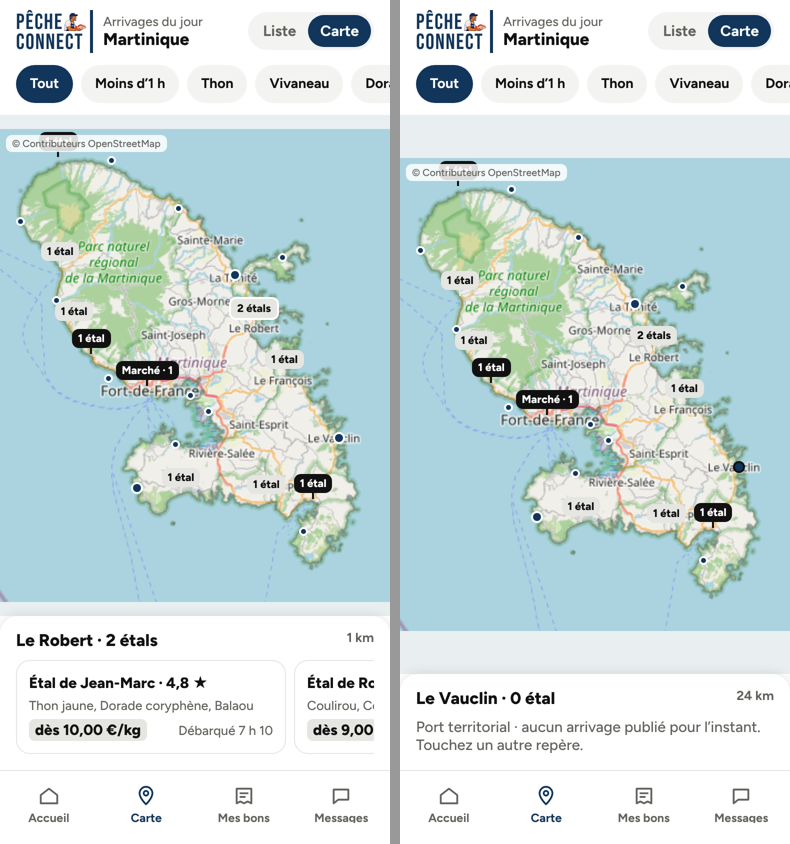
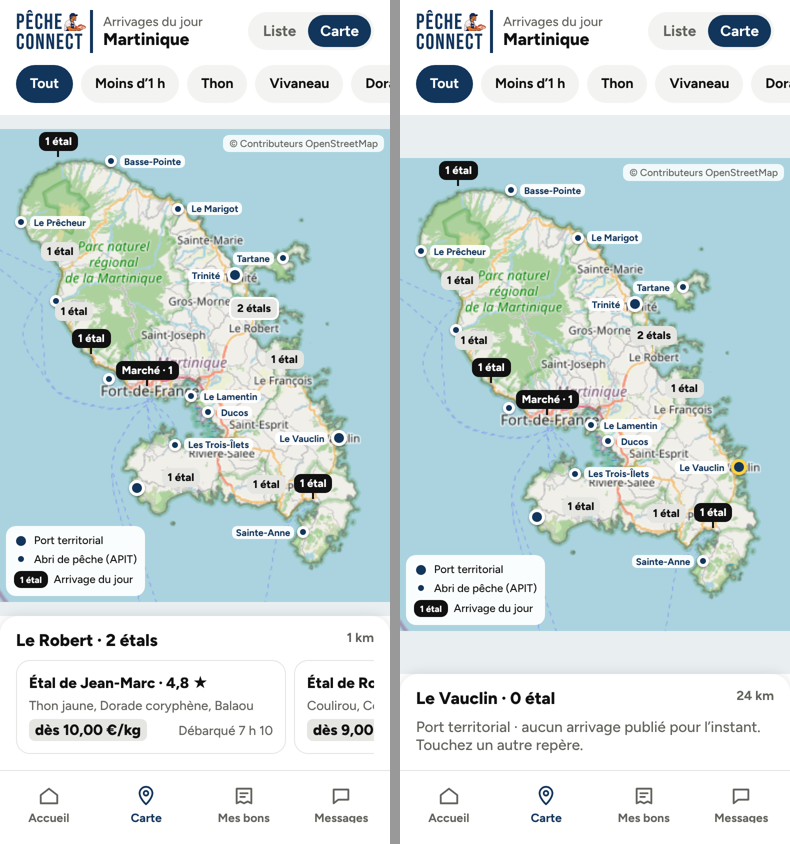
Carte : ports mieux mis en évidence (points plus gros, noms, légende)
Claude-Session: https://claude.ai/code/session_01BURN1duUK4xEwvo1i6Y61n

diff --git a/docs/_expo/static/js/web/entry-ca0cae71b13db94313d8381c0b77cc75.js b/docs/_expo/static/js/web/entry-ca0cae71b13db94313d8381c0b77cc75.js
@@ -756,7 +756,7 @@ __d(function(g,r,i,a,m,e,d){var t=r(d[0]);Object.defineProperty(e,"__esModule",{
 __d(function(g,r,i,a,m,e,d){m.exports={uri:"/assets/assets/personnage/tend.320ef15a95dc7fce6cc1bf8331c2c593.png",width:560,height:446}},654,[]);
 __d(function(g,r,i,a,m,e,d){m.exports={uri:"/assets/assets/personnage/tete-rire.c2d12189016b39b9d86133a097092736.png",width:360,height:318}},655,[]);
 __d(function(g,r,i,a,m,_e,d){var e=r(d[0]);Object.defineProperty(_e,"__esModule",{value:!0}),_e.default=function(){const e=(0,p.useApp)(),h=e.mesBons();return(0,f.jsxs)(l.SafeAreaView,{edges:['top'],style:{flex:1,backgroundColor:x.couleurs.fond},children:[(0,f.jsx)(u.T,{tresGras:!0,style:{fontSize:24,padding:16},children:"Mes bons"}),(0,f.jsxs)(n.default,{children:[h.length?null:(0,f.jsx)(u.Vide,{titre:"Aucun bon pour l\u2019instant",texte:"Quand vous r\xe9servez, votre bon de retrait appara\xeet ici avec son code.",action:"Voir les \xe9tals",onAction:()=>t.router.navigate('/(client)')}),h.map(n=>{const l=e.etal(n.etalId);return(0,f.jsxs)(s.default,{onPress:()=>t.router.push({pathname:'/bon/[code]',params:{code:n.code}}),style:{padding:16,gap:6,borderBottomWidth:1,borderBottomColor:x.couleurs.ligne},children:[(0,f.jsxs)(o.default,{style:{flexDirection:'row',justifyContent:'space-between',alignItems:'center'},children:[(0,f.jsx)(u.T,{tresGras:!0,style:{fontSize:18},children:n.code}),(0,f.jsx)(u.Pastille,{texte:n.creneau})]}),(0,f.jsxs)(u.T,{children:["\xc9tal de ",l?.pecheur," \xb7 ",l?.port]}),(0,f.jsx)(u.T,{gris:!0,petit:!0,children:e.resume(n.lignes)}),(0,f.jsx)(u.Pastille,{texte:'retire'===n.statut?'Retir\xe9 \xb7 pay\xe9 '+(0,c.euro)(n.montantPaye??0):'\xc0 retirer \xb7 en attente de pes\xe9e',style:{backgroundColor:'retire'===n.statut?'#dff3ea':x.couleurs.doux}})]},n.code)})]})]})};var t=r(d[1]),s=e(r(d[2])),n=e(r(d[3])),o=e(r(d[4])),l=r(d[5]),u=r(d[6]),c=r(d[7]),p=r(d[8]),x=r(d[9]),f=r(d[10])},656,[33,20,368,280,272,380,653,650,643,651,13]);
-__d(function(g,r,i,a,m,_e,d){var e=r(d[0]);Object.defineProperty(_e,"__esModule",{value:!0}),_e.default=function(){const e=(0,b.useApp)(),[c,R]=(0,s.useState)('Tout'),[P,O]=(0,s.useState)(e.e.commune),[k,z]=(0,s.useState)({w:0,h:0}),v=t=>e.e.etals.filter(s=>s.port===t&&s.produits.length>0&&('Tout'===c||('Moins d\u20191 h'===c?e.frais(s):s.produits.some(e=>e.espece.startsWith(c)&&e.dispoKg>0)))),L=v(P);return(0,y.jsxs)(h.SafeAreaView,{edges:['top'],style:{flex:1,backgroundColor:j.couleurs.fond},children:[(0,y.jsxs)(u.default,{style:{paddingHorizontal:16,paddingTop:10,flexDirection:'row',alignItems:'center',justifyContent:'space-between'},children:[(0,y.jsxs)(u.default,{style:{flexDirection:'row',alignItems:'center',gap:10},children:[(0,y.jsx)(f.Logo,{}),(0,y.jsxs)(u.default,{children:[(0,y.jsx)(f.T,{gris:!0,petit:!0,children:"Arrivages du jour"}),(0,y.jsx)(f.T,{tresGras:!0,style:{fontSize:17},children:"Martinique"})]})]}),(0,y.jsxs)(u.default,{style:C.bascule,children:[(0,y.jsx)(l.default,{onPress:()=>t.router.navigate('/(client)'),style:C.basc,children:(0,y.jsx)(f.T,{gras:!0,gris:!0,children:"Liste"})}),(0,y.jsx)(u.default,{style:[C.basc,{backgroundColor:j.couleurs.marine}],children:(0,y.jsx)(f.T,{gras:!0,style:{color:'#fff'},children:"Carte"})})]})]}),(0,y.jsx)(n.default,{horizontal:!0,showsHorizontalScrollIndicator:!1,contentContainerStyle:{gap:8,paddingHorizontal:16,paddingVertical:12},style:{flexGrow:0,flexShrink:0,minHeight:62},children:p.FILTRES.map(e=>(0,y.jsx)(f.Chip,{titre:e,actif:c===e,onPress:()=>R(e)},e))}),(0,y.jsx)(u.default,{style:{flex:1,backgroundColor:'#e9eff1',alignItems:'center',justifyContent:'center'},onLayout:e=>{const{width:t,height:s}=e.nativeEvent.layout,o=Math.min(s,t*T/w);z({w:o*w/T,h:o})},children:k.w>0?(0,y.jsxs)(u.default,{style:{width:k.w,height:k.h},children:[(0,y.jsx)(o.default,{source:r(d[15]),style:{width:k.w,height:k.h},resizeMode:"stretch",accessibilityLabel:"Carte de la Martinique"}),Object.keys(p.PORTS).filter(e=>!v(e).length).map(e=>{const[t,s]=S(p.PORTS[e].lat,p.PORTS[e].lon),o=e===P,n='Port territorial'===p.PORTS[e].type?12:9;return(0,y.jsx)(l.default,{accessibilityLabel:e+', '+p.PORTS[e].type.toLowerCase()+', aucun arrivage',onPress:()=>O(e),hitSlop:10,style:{position:'absolute',left:t*k.w-n/2,top:s*k.h-n/2,width:n,height:n,borderRadius:n/2,backgroundColor:j.couleurs.marine,borderWidth:2,borderColor:o?j.couleurs.texte:'#fff'}},e)}),Object.keys(p.PORTS).map(t=>{const s=v(t);if(!s.length)return null;const[o,n]=S(p.PORTS[t].lat,p.PORTS[t].lon),c=s.some(e.frais),h=t===P;return(0,y.jsxs)(l.default,{accessibilityLabel:t+', '+s.length+' \xe9tals',onPress:()=>O(t),style:{position:'absolute',left:o*k.w-40,top:n*k.h-30,width:80,alignItems:'center'},children:[(0,y.jsx)(u.default,{style:[C.repere,c?{backgroundColor:j.couleurs.accent}:{backgroundColor:j.couleurs.texte},h&&C.choisi],children:(0,y.jsx)(f.T,{tresGras:!0,style:{fontSize:11,color:c?j.couleurs.surAccent:'#fff'},children:'Fort-de-France'===t?'March\xe9 \xb7 '+s.length:s.length+' \xe9tal'+(s.length>1?'s':'')})}),(0,y.jsx)(u.default,{style:{width:2,height:6,backgroundColor:c?j.couleurs.accent:j.couleurs.texte}})]},t)}),(0,y.jsx)(u.default,{style:C.osm,children:(0,y.jsx)(f.T,{gris:!0,style:{fontSize:10},children:"\xa9 Contributeurs OpenStreetMap"})})]}):null}),(0,y.jsxs)(u.default,{style:C.volet,children:[(0,y.jsxs)(u.default,{style:{flexDirection:'row',justifyContent:'space-between',marginBottom:10},children:[(0,y.jsxs)(f.T,{tresGras:!0,style:{fontSize:17},children:[P," \xb7 ",L.length," \xe9tal",L.length>1?'s':'']}),(0,y.jsxs)(f.T,{gras:!0,gris:!0,petit:!0,children:[(0,x.distanceKm)(p.PORTS[e.e.commune],p.PORTS[P])," km"]})]}),L.length?(0,y.jsx)(n.default,{horizontal:!0,showsHorizontalScrollIndicator:!1,contentContainerStyle:{gap:8},children:L.map(s=>(0,y.jsxs)(l.default,{onPress:()=>t.router.push({pathname:'/etal/[id]',params:{id:s.id}}),style:[C.mini,{width:L.length>1?270:340}],children:[(0,y.jsxs)(f.T,{tresGras:!0,children:["\xc9tal de ",s.pecheur," \xb7 ",String(s.note).replace('.',',')," \u2605"]}),(0,y.jsx)(f.T,{gris:!0,petit:!0,numberOfLines:1,children:s.produits.map(e=>e.espece).join(', ')}),(0,y.jsxs)(u.default,{style:{flexDirection:'row',justifyContent:'space-between',alignItems:'center'},children:[null!==e.minPrix(s)?(0,y.jsx)(f.Prix,{texte:'d\xe8s '+(0,x.euro)(e.minPrix(s))+'/kg'}):(0,y.jsx)(u.default,{}),(0,y.jsxs)(f.T,{gris:!0,petit:!0,children:["D\xe9barqu\xe9 ",(0,x.heure)(s.debarque)]})]})]},s.id))}):(0,y.jsxs)(f.T,{gris:!0,children:[p.PORTS[P]?.type??'Port'," \xb7 ",e.e.etals.some(e=>e.port===P)?'aucun \xe9tal ne correspond au filtre ici.':'aucun arrivage publi\xe9 pour l\u2019instant.'," Touchez un autre rep\xe8re."]})]})]})};var t=r(d[1]),s=r(d[2]),o=e(r(d[3])),l=e(r(d[4])),n=e(r(d[5])),c=e(r(d[6])),u=e(r(d[7])),h=r(d[8]),f=r(d[9]),p=r(d[10]),x=r(d[11]),b=r(d[12]),j=r(d[13]),y=r(d[14]);const w=1055,T=1280,S=(e,t)=>[(136108+2222.2*t)/w,(34232.374-2295.661*e)/T];const C=c.default.create({bascule:{flexDirection:'row',backgroundColor:j.couleurs.doux,borderRadius:999,padding:3},basc:{paddingHorizontal:12,paddingVertical:7,borderRadius:999},repere:{borderRadius:7,paddingHorizontal:6,paddingVertical:3},choisi:{borderWidth:2,borderColor:'#fff',shadowColor:'#000',shadowOpacity:.4,shadowRadius:0,shadowOffset:{width:0,height:0},elevation:3},osm:{position:'absolute',left:6,top:6,backgroundColor:'rgba(255,255,255,0.85)',borderRadius:6,paddingHorizontal:6,paddingVertical:2},volet:{backgroundColor:j.couleurs.fond,borderTopLeftRadius:18,borderTopRightRadius:18,padding:16,paddingTop:14,shadowColor:'#000',shadowOpacity:.12,shadowRadius:12,elevation:6},mini:{borderWidth:1,borderColor:j.couleurs.ligne,borderRadius:14,padding:12,gap:6}})},657,[33,20,15,330,368,280,156,272,380,653,649,650,643,651,13,658]);
+__d(function(g,r,i,a,m,_e,d){var e=r(d[0]);Object.defineProperty(_e,"__esModule",{value:!0}),_e.default=function(){const e=(0,b.useApp)(),[c,R]=(0,s.useState)('Tout'),[P,O]=(0,s.useState)(e.e.commune),[k,z]=(0,s.useState)({w:0,h:0}),L=t=>e.e.etals.filter(s=>s.port===t&&s.produits.length>0&&('Tout'===c||('Moins d\u20191 h'===c?e.frais(s):s.produits.some(e=>e.espece.startsWith(c)&&e.dispoKg>0)))),v=L(P);return(0,y.jsxs)(h.SafeAreaView,{edges:['top'],style:{flex:1,backgroundColor:j.couleurs.fond},children:[(0,y.jsxs)(u.default,{style:{paddingHorizontal:16,paddingTop:10,flexDirection:'row',alignItems:'center',justifyContent:'space-between'},children:[(0,y.jsxs)(u.default,{style:{flexDirection:'row',alignItems:'center',gap:10},children:[(0,y.jsx)(f.Logo,{}),(0,y.jsxs)(u.default,{children:[(0,y.jsx)(f.T,{gris:!0,petit:!0,children:"Arrivages du jour"}),(0,y.jsx)(f.T,{tresGras:!0,style:{fontSize:17},children:"Martinique"})]})]}),(0,y.jsxs)(u.default,{style:C.bascule,children:[(0,y.jsx)(l.default,{onPress:()=>t.router.navigate('/(client)'),style:C.basc,children:(0,y.jsx)(f.T,{gras:!0,gris:!0,children:"Liste"})}),(0,y.jsx)(u.default,{style:[C.basc,{backgroundColor:j.couleurs.marine}],children:(0,y.jsx)(f.T,{gras:!0,style:{color:'#fff'},children:"Carte"})})]})]}),(0,y.jsx)(n.default,{horizontal:!0,showsHorizontalScrollIndicator:!1,contentContainerStyle:{gap:8,paddingHorizontal:16,paddingVertical:12},style:{flexGrow:0,flexShrink:0,minHeight:62},children:p.FILTRES.map(e=>(0,y.jsx)(f.Chip,{titre:e,actif:c===e,onPress:()=>R(e)},e))}),(0,y.jsx)(u.default,{style:{flex:1,backgroundColor:'#e9eff1',alignItems:'center',justifyContent:'center'},onLayout:e=>{const{width:t,height:s}=e.nativeEvent.layout,o=Math.min(s,t*T/w);z({w:o*w/T,h:o})},children:k.w>0?(0,y.jsxs)(u.default,{style:{width:k.w,height:k.h},children:[(0,y.jsx)(o.default,{source:r(d[15]),style:{width:k.w,height:k.h},resizeMode:"stretch",accessibilityLabel:"Carte de la Martinique"}),Object.keys(p.PORTS).filter(e=>!L(e).length).map((e,t,s)=>{const[o,n]=S(p.PORTS[e].lat,p.PORTS[e].lon),c=e===P,h='Port territorial'===p.PORTS[e].type?16:12,x=o<.55,b=o*k.w,w=n*k.h,T=5.6*e.length+10,R=x?b+h/2:b-h/2-T,z=R+T,v=Object.keys(p.PORTS).some(e=>{if(!L(e).length)return!1;const[t,s]=S(p.PORTS[e].lat,p.PORTS[e].lon),o=t*k.w,l=s*k.h;return R<o+34&&z>o-34&&w-8<l-6&&w+8>l-32});return(0,y.jsxs)(l.default,{accessibilityLabel:e+', '+p.PORTS[e].type.toLowerCase()+', aucun arrivage',onPress:()=>O(e),hitSlop:8,style:{position:'absolute',left:o*k.w-(x?h/2:110-h/2),top:n*k.h-h/2,width:110,flexDirection:x?'row':'row-reverse',alignItems:'center',gap:3},children:[(0,y.jsx)(u.default,{style:{width:h,height:h,borderRadius:h/2,backgroundColor:j.couleurs.marine,borderWidth:3,borderColor:c?'#ffd23f':'#fff',shadowColor:'#000',shadowOpacity:.35,shadowRadius:2,shadowOffset:{width:0,height:1},elevation:2}}),v&&!c?null:(0,y.jsx)(u.default,{style:C.nomPort,children:(0,y.jsx)(f.T,{gras:!0,style:{fontSize:9.5,color:j.couleurs.marine},numberOfLines:1,children:e})})]},e)}),Object.keys(p.PORTS).map(t=>{const s=L(t);if(!s.length)return null;const[o,n]=S(p.PORTS[t].lat,p.PORTS[t].lon),c=s.some(e.frais),h=t===P;return(0,y.jsxs)(l.default,{accessibilityLabel:t+', '+s.length+' \xe9tals',onPress:()=>O(t),style:{position:'absolute',left:o*k.w-40,top:n*k.h-30,width:80,alignItems:'center'},children:[(0,y.jsx)(u.default,{style:[C.repere,c?{backgroundColor:j.couleurs.accent}:{backgroundColor:j.couleurs.texte},h&&C.choisi],children:(0,y.jsx)(f.T,{tresGras:!0,style:{fontSize:11,color:c?j.couleurs.surAccent:'#fff'},children:'Fort-de-France'===t?'March\xe9 \xb7 '+s.length:s.length+' \xe9tal'+(s.length>1?'s':'')})}),(0,y.jsx)(u.default,{style:{width:2,height:6,backgroundColor:c?j.couleurs.accent:j.couleurs.texte}})]},t)}),(0,y.jsx)(u.default,{style:C.osm,children:(0,y.jsx)(f.T,{gris:!0,style:{fontSize:10},children:"\xa9 Contributeurs OpenStreetMap"})}),(0,y.jsxs)(u.default,{style:C.legende,children:[(0,y.jsxs)(u.default,{style:C.ligneLeg,children:[(0,y.jsx)(u.default,{style:[C.pt,{width:14,height:14,borderRadius:7}]}),(0,y.jsx)(f.T,{style:C.txtLeg,children:"Port territorial"})]}),(0,y.jsxs)(u.default,{style:C.ligneLeg,children:[(0,y.jsx)(u.default,{style:[C.pt,{width:10,height:10,borderRadius:5,marginHorizontal:2}]}),(0,y.jsx)(f.T,{style:C.txtLeg,children:"Abri de p\xeache (APIT)"})]}),(0,y.jsxs)(u.default,{style:C.ligneLeg,children:[(0,y.jsx)(u.default,{style:[C.repere,{backgroundColor:j.couleurs.texte}],children:(0,y.jsx)(f.T,{tresGras:!0,style:{fontSize:9,color:'#fff'},children:"1 \xe9tal"})}),(0,y.jsx)(f.T,{style:C.txtLeg,children:"Arrivage du jour"})]})]})]}):null}),(0,y.jsxs)(u.default,{style:C.volet,children:[(0,y.jsxs)(u.default,{style:{flexDirection:'row',justifyContent:'space-between',marginBottom:10},children:[(0,y.jsxs)(f.T,{tresGras:!0,style:{fontSize:17},children:[P," \xb7 ",v.length," \xe9tal",v.length>1?'s':'']}),(0,y.jsxs)(f.T,{gras:!0,gris:!0,petit:!0,children:[(0,x.distanceKm)(p.PORTS[e.e.commune],p.PORTS[P])," km"]})]}),v.length?(0,y.jsx)(n.default,{horizontal:!0,showsHorizontalScrollIndicator:!1,contentContainerStyle:{gap:8},children:v.map(s=>(0,y.jsxs)(l.default,{onPress:()=>t.router.push({pathname:'/etal/[id]',params:{id:s.id}}),style:[C.mini,{width:v.length>1?270:340}],children:[(0,y.jsxs)(f.T,{tresGras:!0,children:["\xc9tal de ",s.pecheur," \xb7 ",String(s.note).replace('.',',')," \u2605"]}),(0,y.jsx)(f.T,{gris:!0,petit:!0,numberOfLines:1,children:s.produits.map(e=>e.espece).join(', ')}),(0,y.jsxs)(u.default,{style:{flexDirection:'row',justifyContent:'space-between',alignItems:'center'},children:[null!==e.minPrix(s)?(0,y.jsx)(f.Prix,{texte:'d\xe8s '+(0,x.euro)(e.minPrix(s))+'/kg'}):(0,y.jsx)(u.default,{}),(0,y.jsxs)(f.T,{gris:!0,petit:!0,children:["D\xe9barqu\xe9 ",(0,x.heure)(s.debarque)]})]})]},s.id))}):(0,y.jsxs)(f.T,{gris:!0,children:[p.PORTS[P]?.type??'Port'," \xb7 ",e.e.etals.some(e=>e.port===P)?'aucun \xe9tal ne correspond au filtre ici.':'aucun arrivage publi\xe9 pour l\u2019instant.'," Touchez un autre rep\xe8re."]})]})]})};var t=r(d[1]),s=r(d[2]),o=e(r(d[3])),l=e(r(d[4])),n=e(r(d[5])),c=e(r(d[6])),u=e(r(d[7])),h=r(d[8]),f=r(d[9]),p=r(d[10]),x=r(d[11]),b=r(d[12]),j=r(d[13]),y=r(d[14]);const w=1055,T=1280,S=(e,t)=>[(136108+2222.2*t)/w,(34232.374-2295.661*e)/T];const C=c.default.create({bascule:{flexDirection:'row',backgroundColor:j.couleurs.doux,borderRadius:999,padding:3},basc:{paddingHorizontal:12,paddingVertical:7,borderRadius:999},repere:{borderRadius:7,paddingHorizontal:6,paddingVertical:3},choisi:{borderWidth:2,borderColor:'#fff',shadowColor:'#000',shadowOpacity:.4,shadowRadius:0,shadowOffset:{width:0,height:0},elevation:3},nomPort:{backgroundColor:'rgba(255,255,255,0.92)',borderRadius:5,paddingHorizontal:4,paddingVertical:1,maxWidth:92},legende:{position:'absolute',left:6,bottom:6,backgroundColor:'rgba(255,255,255,0.94)',borderRadius:10,padding:8,gap:5},ligneLeg:{flexDirection:'row',alignItems:'center',gap:6},pt:{backgroundColor:j.couleurs.marine,borderWidth:2,borderColor:'#fff'},txtLeg:{fontSize:11},osm:{position:'absolute',right:6,top:6,backgroundColor:'rgba(255,255,255,0.85)',borderRadius:6,paddingHorizontal:6,paddingVertical:2},volet:{backgroundColor:j.couleurs.fond,borderTopLeftRadius:18,borderTopRightRadius:18,padding:16,paddingTop:14,shadowColor:'#000',shadowOpacity:.12,shadowRadius:12,elevation:6},mini:{borderWidth:1,borderColor:j.couleurs.ligne,borderRadius:14,padding:12,gap:6}})},657,[33,20,15,330,368,280,156,272,380,653,649,650,643,651,13,658]);
 __d(function(e,t,s,i,a,n,r){a.exports={uri:"/assets/assets/carte-martinique.34138d2fb5244b163653e365be8723ee.png",width:1055,height:1280}},658,[]);
 __d(function(g,r,i,_a,m,_e,d){var e=r(d[0]);Object.defineProperty(_e,"__esModule",{value:!0}),_e.default=function(){const e=(0,y.useApp)(),[a,z]=(0,o.useState)('Tout'),[S,w]=(0,o.useState)(''),[v,H]=(0,o.useState)(!1),L=(0,o.useMemo)(()=>e.e.etals.filter(t=>{if('Moins d\u20191 h'===a&&!e.frais(t))return!1;if('Tout'!==a&&'Moins d\u20191 h'!==a&&!t.produits.some(e=>e.espece.startsWith(a)&&e.dispoKg>0))return!1;const o=S.trim().toLowerCase();return!(o&&!(t.pecheur+' '+t.port+' '+t.produits.map(e=>e.espece).join(' ')).toLowerCase().includes(o))&&t.produits.length>0}).sort((t,o)=>e.km(t)-e.km(o)),[e,a,S]),R=L.filter(e.frais);return(0,T.jsxs)(h.SafeAreaView,{edges:['top'],style:{flex:1,backgroundColor:b.couleurs.fond},children:[(0,T.jsxs)(u.default,{style:{paddingHorizontal:16,paddingTop:10,gap:12},children:[(0,T.jsxs)(u.default,{style:{flexDirection:'row',alignItems:'center',justifyContent:'space-between'},children:[(0,T.jsxs)(u.default,{style:{flexDirection:'row',alignItems:'center',gap:10},children:[(0,T.jsx)(x.Logo,{}),(0,T.jsxs)(l.default,{accessibilityRole:"button",onPress:()=>H(!0),children:[(0,T.jsx)(x.T,{gris:!0,petit:!0,children:"Retrait pr\xe8s de"}),(0,T.jsxs)(x.T,{tresGras:!0,style:{fontSize:17},children:[e.e.commune," \u25be"]})]})]}),(0,T.jsx)(x.Rond,{label:"Mon compte",onPress:()=>t.router.push('/compte'),children:(0,T.jsx)(f.IcCompte,{})})]}),(0,T.jsxs)(u.default,{style:C.recherche,children:[(0,T.jsx)(f.IcLoupe,{couleur:b.couleurs.gris,taille:18}),(0,T.jsx)(c.default,{value:S,onChangeText:w,placeholder:"Thon, vivaneau, un port\u2026",placeholderTextColor:b.couleurs.grisClair,style:C.champ,accessibilityLabel:"Rechercher"})]})]}),(0,T.jsx)(n.default,{horizontal:!0,showsHorizontalScrollIndicator:!1,contentContainerStyle:{gap:8,paddingHorizontal:16,paddingVertical:12},style:{flexGrow:0,flexShrink:0,minHeight:62},children:j.FILTRES.map(e=>(0,T.jsx)(x.Chip,{titre:e,actif:a===e,onPress:()=>z(e)},e))}),(0,T.jsxs)(n.default,{contentContainerStyle:{paddingBottom:24,gap:20},children:['Tout'!==a||S?null:(0,T.jsxs)(u.default,{style:C.bandeau,children:[(0,T.jsxs)(u.default,{style:{width:'58%',gap:6},children:[(0,T.jsx)(x.T,{tresGras:!0,style:{color:b.couleurs.marine,fontSize:19,lineHeight:23},children:"Le poisson du jour, en direct des p\xeacheurs"}),(0,T.jsxs)(x.T,{gras:!0,style:{color:b.couleurs.texte},children:[L.length," \xe9tals ouverts ce matin"]})]}),(0,T.jsx)(s.default,{source:r(d[17]),style:C.perso,resizeMode:"contain",accessibilityLabel:"Le p\xeacheur montre fi\xe8rement un vivaneau"})]}),L.length?(0,T.jsxs)(T.Fragment,{children:[R.length>0&&'Moins d\u20191 h'!==a?(0,T.jsxs)(u.default,{style:{gap:10},children:[(0,T.jsx)(x.T,{tresGras:!0,style:C.h2,children:"Arriv\xe9 il y a moins d\u2019une heure"}),(0,T.jsx)(n.default,{horizontal:!0,showsHorizontalScrollIndicator:!1,contentContainerStyle:{gap:12,paddingHorizontal:16},children:R.map(e=>(0,T.jsx)(p.CarteEtal,{etal:e},e.id))})]}):null,(0,T.jsxs)(u.default,{style:{gap:10},children:[(0,T.jsx)(x.T,{tresGras:!0,style:C.h2,children:'Tout'!==a||S?L.length+' \xe9tal'+(L.length>1?'s':'')+' trouv\xe9'+(L.length>1?'s':''):'Tous les \xe9tals du jour'}),(0,T.jsx)(u.default,{style:{paddingHorizontal:16,gap:18},children:L.map(e=>(0,T.jsx)(p.CarteEtal,{etal:e,large:!0},e.id))})]})]}):(0,T.jsx)(x.Vide,{titre:"Aucun \xe9tal ne correspond",texte:"Essayez un autre poisson ou effacez la recherche.",action:"Tout afficher",onAction:()=>{z('Tout'),w('')}})]}),(0,T.jsx)(x.Feuille,{visible:v,onFermer:()=>H(!1),titre:"Retrait pr\xe8s de\u2026",children:Object.keys(j.PORTS).map(t=>(0,T.jsxs)(l.default,{onPress:()=>{e.choisirCommune(t),H(!1)},style:C.option,children:[(0,T.jsx)(x.T,{tresGras:!0,style:{flex:1},children:t}),e.e.commune===t?(0,T.jsx)(x.T,{tresGras:!0,children:"\u2713"}):null]},t))})]})};var t=r(d[1]),o=r(d[2]),s=e(r(d[3])),l=e(r(d[4])),n=e(r(d[5])),a=e(r(d[6])),c=e(r(d[7])),u=e(r(d[8])),h=r(d[9]),p=r(d[10]),f=r(d[11]),x=r(d[12]),j=r(d[13]),y=r(d[14]),b=r(d[15]),T=r(d[16]);const C=a.default.create({bandeau:{marginHorizontal:16,height:160,borderRadius:16,paddingLeft:18,justifyContent:'center',overflow:'hidden',backgroundColor:b.couleurs.doux},perso:{position:'absolute',right:8,bottom:-4,width:128,height:160},recherche:{flexDirection:'row',alignItems:'center',gap:10,backgroundColor:b.couleurs.doux,borderRadius:999,paddingHorizontal:16,height:46},champ:{flex:1,fontSize:16,fontFamily:b.polices.normal,color:b.couleurs.texte,height:46},h2:{fontSize:19,paddingHorizontal:16},option:{flexDirection:'row',paddingVertical:14,borderBottomWidth:1,borderBottomColor:b.couleurs.ligne}})},659,[33,20,15,330,368,280,156,397,272,380,660,620,653,649,643,651,13,661]);
 __d(function(g,r,i,a,m,_e,d){var e=r(d[0]);Object.defineProperty(_e,"__esModule",{value:!0}),_e.CarteEtal=function({etal:e,large:f}){const x=(0,o.useApp)(),h=x.frais(e),j=e.produits.reduce((e,t)=>e+t.dispoKg,0),y=x.minPrix(e);return(0,p.jsxs)(s.default,{accessibilityRole:"button",onPress:()=>t.router.push({pathname:'/etal/[id]',params:{id:e.id}}),style:{width:f?'100%':260,gap:5},children:[(0,p.jsxs)(l.default,{style:[c.s.photo,{height:f?150:130}],children:[(0,p.jsx)(c.T,{gras:!0,gris:!0,petit:!0,style:{letterSpacing:1},children:e.port.toUpperCase()}),(0,p.jsx)(l.default,{style:{position:'absolute',left:10,top:10},children:j>0&&j<=6?(0,p.jsx)(l.default,{style:{backgroundColor:u.couleurs.alerte,borderRadius:999,paddingHorizontal:8,paddingVertical:4},children:(0,p.jsx)(c.T,{gras:!0,style:{color:'#fff',fontSize:12},children:"Bient\xf4t \xe9puis\xe9"})}):(0,p.jsx)(c.Pastille,{texte:'D\xe9barqu\xe9 '+(0,n.heure)(e.debarque),fonce:!h})})]}),(0,p.jsxs)(l.default,{style:{flexDirection:'row',justifyContent:'space-between',alignItems:'center'},children:[(0,p.jsxs)(c.T,{tresGras:!0,style:{fontSize:16},children:["\xc9tal de ",e.pecheur]}),(0,p.jsx)(l.default,{style:{backgroundColor:u.couleurs.doux,borderRadius:999,paddingHorizontal:8,paddingVertical:3},children:(0,p.jsxs)(c.T,{gras:!0,petit:!0,children:[String(e.note).replace('.',',')," \u2605"]})})]}),(0,p.jsxs)(l.default,{style:{flexDirection:'row',flexWrap:'wrap',alignItems:'center',gap:6},children:[(0,p.jsx)(c.T,{gris:!0,numberOfLines:1,style:{flexShrink:1},children:e.produits.map(e=>e.espece).join(', ')||'Pas encore d\u2019arrivage'}),null!==y?(0,p.jsx)(c.Prix,{texte:'d\xe8s '+(0,n.euro)(y)+'/kg'}):null]}),(0,p.jsxs)(c.T,{gris:!0,petit:!0,children:[e.port," \xb7 ",x.km(e)," km \xb7 retrait jusqu\u2019\xe0 ",(0,n.heure)(e.limiteRetrait)]})]})};var t=r(d[1]),s=e(r(d[2])),l=e(r(d[3])),n=r(d[4]),o=r(d[5]),u=r(d[6]),c=r(d[7]),p=r(d[8])},660,[33,20,368,272,650,643,651,653,13]);

diff --git a/app/app/(client)/carte.tsx b/app/app/(client)/carte.tsx
@@ -49,12 +49,24 @@ export default function Carte() {
         {taille.w > 0 ? (
           <View style={{ width: taille.w, height: taille.h }}>
             <Image source={require('../../assets/carte-martinique.png')} style={{ width: taille.w, height: taille.h }} resizeMode="stretch" accessibilityLabel="Carte de la Martinique" />
-            {Object.keys(PORTS).filter((nom) => !garde(nom).length).map((nom) => {
+            {Object.keys(PORTS).filter((nom) => !garde(nom).length).map((nom, _i, vides) => {
               const [px, py] = xy(PORTS[nom].lat, PORTS[nom].lon); const choisi = nom === port;
-              const t = PORTS[nom].type === 'Port territorial' ? 12 : 9;
+              // pas de nom si une étiquette d'arrivage est juste à côté (évite les chevauchements)
+              const t = PORTS[nom].type === 'Port territorial' ? 16 : 12;
+              const aDroite = px < 0.55;
+              const X = px * taille.w, Y = py * taille.h, larg = nom.length * 5.6 + 10;
+              const nx0 = aDroite ? X + t / 2 : X - t / 2 - larg, nx1 = nx0 + larg;
+              const gene = Object.keys(PORTS).some((o) => {
+                if (!garde(o).length) return false;
+                const [ox, oy] = xy(PORTS[o].lat, PORTS[o].lon); const OX = ox * taille.w, OY = oy * taille.h;
+                return nx0 < OX + 34 && nx1 > OX - 34 && Y - 8 < OY - 6 && Y + 8 > OY - 32;
+              });
               return (
-                <Pressable key={nom} accessibilityLabel={nom + ', ' + PORTS[nom].type.toLowerCase() + ', aucun arrivage'} onPress={() => setPort(nom)} hitSlop={10}
-                  style={{ position: 'absolute', left: px * taille.w - t / 2, top: py * taille.h - t / 2, width: t, height: t, borderRadius: t / 2, backgroundColor: c.marine, borderWidth: 2, borderColor: choisi ? c.texte : '#fff' }} />
+                <Pressable key={nom} accessibilityLabel={nom + ', ' + PORTS[nom].type.toLowerCase() + ', aucun arrivage'} onPress={() => setPort(nom)} hitSlop={8}
+                  style={{ position: 'absolute', left: px * taille.w - (aDroite ? t / 2 : 110 - t / 2), top: py * taille.h - t / 2, width: 110, flexDirection: aDroite ? 'row' : 'row-reverse', alignItems: 'center', gap: 3 }}>
+                  <View style={{ width: t, height: t, borderRadius: t / 2, backgroundColor: c.marine, borderWidth: 3, borderColor: choisi ? '#ffd23f' : '#fff', shadowColor: '#000', shadowOpacity: 0.35, shadowRadius: 2, shadowOffset: { width: 0, height: 1 }, elevation: 2 }} />
+                  {gene && !choisi ? null : <View style={st.nomPort}><T gras style={{ fontSize: 9.5, color: c.marine }} numberOfLines={1}>{nom}</T></View>}
+                </Pressable>
               );
             })}
             {Object.keys(PORTS).map((nom) => {
@@ -72,6 +84,11 @@ export default function Carte() {
               );
             })}
             <View style={st.osm}><T gris style={{ fontSize: 10 }}>© Contributeurs OpenStreetMap</T></View>
+            <View style={st.legende}>
+              <View style={st.ligneLeg}><View style={[st.pt, { width: 14, height: 14, borderRadius: 7 }]} /><T style={st.txtLeg}>Port territorial</T></View>
+              <View style={st.ligneLeg}><View style={[st.pt, { width: 10, height: 10, borderRadius: 5, marginHorizontal: 2 }]} /><T style={st.txtLeg}>Abri de pêche (APIT)</T></View>
+              <View style={st.ligneLeg}><View style={[st.repere, { backgroundColor: c.texte }]}><T tresGras style={{ fontSize: 9, color: '#fff' }}>1 étal</T></View><T style={st.txtLeg}>Arrivage du jour</T></View>
+            </View>
           </View>
         ) : null}
       </View>
@@ -105,7 +122,12 @@ const st = StyleSheet.create({
   basc: { paddingHorizontal: 12, paddingVertical: 7, borderRadius: 999 },
   repere: { borderRadius: 7, paddingHorizontal: 6, paddingVertical: 3 },
   choisi: { borderWidth: 2, borderColor: '#fff', shadowColor: '#000', shadowOpacity: 0.4, shadowRadius: 0, shadowOffset: { width: 0, height: 0 }, elevation: 3 },
-  osm: { position: 'absolute', left: 6, top: 6, backgroundColor: 'rgba(255,255,255,0.85)', borderRadius: 6, paddingHorizontal: 6, paddingVertical: 2 },
+  nomPort: { backgroundColor: 'rgba(255,255,255,0.92)', borderRadius: 5, paddingHorizontal: 4, paddingVertical: 1, maxWidth: 92 },
+  legende: { position: 'absolute', left: 6, bottom: 6, backgroundColor: 'rgba(255,255,255,0.94)', borderRadius: 10, padding: 8, gap: 5 },
+  ligneLeg: { flexDirection: 'row', alignItems: 'center', gap: 6 },
+  pt: { backgroundColor: c.marine, borderWidth: 2, borderColor: '#fff' },
+  txtLeg: { fontSize: 11 },
+  osm: { position: 'absolute', right: 6, top: 6, backgroundColor: 'rgba(255,255,255,0.85)', borderRadius: 6, paddingHorizontal: 6, paddingVertical: 2 },
   volet: { backgroundColor: c.fond, borderTopLeftRadius: 18, borderTopRightRadius: 18, padding: 16, paddingTop: 14, shadowColor: '#000', shadowOpacity: 0.12, shadowRadius: 12, elevation: 6 },
   mini: { borderWidth: 1, borderColor: c.ligne, borderRadius: 14, padding: 12, gap: 6 },
 });

diff --git a/docs/404.html b/docs/404.html
@@ -33,6 +33,6 @@
     </noscript>
     <!-- The root element for your Expo app. -->
     <div id="root"></div>
-  <script src="/_expo/static/js/web/entry-6f69f2a8df325ba7aaed9ff4a840a059.js" defer></script>
+  <script src="/_expo/static/js/web/entry-ca0cae71b13db94313d8381c0b77cc75.js" defer></script>
 </body>
 </html>

diff --git a/docs/index.html b/docs/index.html
@@ -33,6 +33,6 @@
     </noscript>
     <!-- The root element for your Expo app. -->
     <div id="root"></div>
-  <script src="/_expo/static/js/web/entry-6f69f2a8df325ba7aaed9ff4a840a059.js" defer></script>
+  <script src="/_expo/static/js/web/entry-ca0cae71b13db94313d8381c0b77cc75.js" defer></script>
 </body>
 </html>

diff --git a/CLAUDE.md b/CLAUDE.md
@@ -54,7 +54,7 @@ Le porteur du projet n'est pas développeur : explique les choix simplement, en 
 
 ## Contexte Martinique à respecter
 
-- Ports et lieux : **réseau officiel du Comité régional des pêches (carte « Le réseau de la pêche martiniquaise », envoyée par le porteur le 17/11/2026)** — ports territoriaux : Grand-Rivière, Trinité, Case-Pilote, Le François, Le Vauclin, Les Anses-d'Arlet, Le Diamant, Le Marin ; APIT (aménagements / abris de pêche d'intérêt territorial) : Basse-Pointe, Le Prêcheur, Saint-Pierre, Le Carbet, Fond Lahaye, Le Marigot, Tartane, Le Robert, Le Lamentin, Ducos, Les Trois-Îlets, Sainte-Luce, Sainte-Anne ; plus Fort-de-France (marché) et Belle-Fontaine (débarcadère des données de démo). Tous dans `PORTS` (`src/data/demo.ts`, champ `type`, coordonnées approximatives) ; sur la carte, les ports sans arrivage sont des points marine (plus gros pour les ports territoriaux), touchables.
+- Ports et lieux : **réseau officiel du Comité régional des pêches (carte « Le réseau de la pêche martiniquaise », envoyée par le porteur le 17/11/2026)** — ports territoriaux : Grand-Rivière, Trinité, Case-Pilote, Le François, Le Vauclin, Les Anses-d'Arlet, Le Diamant, Le Marin ; APIT (aménagements / abris de pêche d'intérêt territorial) : Basse-Pointe, Le Prêcheur, Saint-Pierre, Le Carbet, Fond Lahaye, Le Marigot, Tartane, Le Robert, Le Lamentin, Ducos, Les Trois-Îlets, Sainte-Luce, Sainte-Anne ; plus Fort-de-France (marché) et Belle-Fontaine (débarcadère des données de démo). Tous dans `PORTS` (`src/data/demo.ts`, champ `type`, coordonnées approximatives) ; sur la carte, les ports sans arrivage sont des points marine cerclés de blanc (plus gros pour les ports territoriaux) avec leur nom dans une étiquette blanche (masquée seulement si elle chevauche une étiquette d'arrivage), touchables ; légende en bas à gauche, crédit OSM en haut à droite.
 - Noms d'espèces locaux : thazard, coulirou, balaou, colas, chatrou, dorade coryphène, vivaneau, thon jaune, langouste, lambi.
 - Réglementation : vente directe par pêcheur professionnel, traçabilité, hygiène pour le nettoyage (à vérifier auprès de la Direction de la Mer et de la DAAF). Zones interdites (chlordécone) et périodes de fermeture (lambi, langouste) : la plateforme pourrait les bloquer.
 - Adoption par les pêcheurs = le vrai défi : interface ultra simple, accompagnement à l'inscription Stripe, passer par le comité des pêches et les coopératives.
